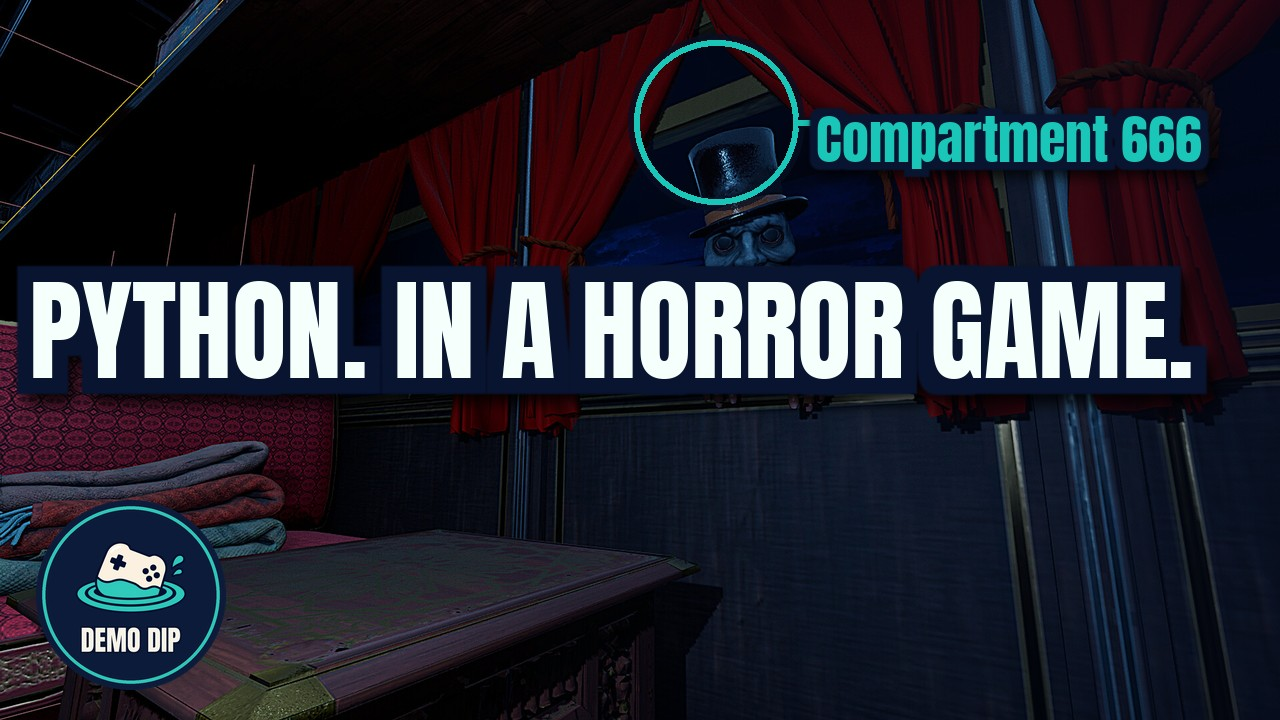
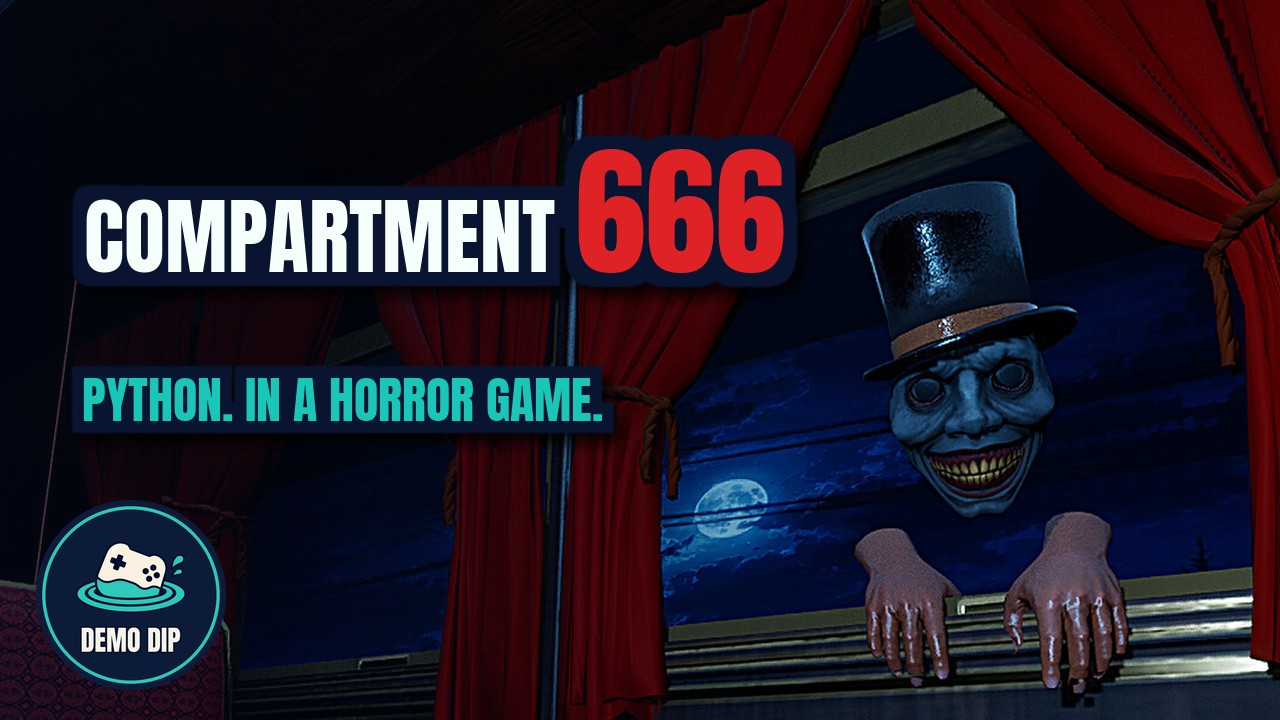
Thumbnails: pick the horror shot, and let one word carry the frame
Both COMPARTMENT 666 thumbnails were built on the calmest screenshot the store
had -- an empty carriage -- and set the game's name at one flat size. The user:
"666을 강조해줘", then "호러물인데.. 호러를 강조한 샷으로 만들어야 함".

Background is now ss00: the top-hat figure grinning through the window, red
curtains, a moon. It is the only frame in the set that reads as horror at 246 px.

Two additions to make_thumbnail.py, both needed to use it:

--zoom / --ox / --oy. A 16:9 screenshot into a 16:9 canvas crops nothing at
zoom 1, so --focus had no effect and there was no way to push in on the face.
At zoom 1.8 the face fills the right half and the text clears it -- the first
attempt at zoom 1.5 put the headline straight across the face, which is exactly
the "게임 스샷이 망가지면 안 됨" rule.

{braces} mark an accent run: drawn 1.7x and in blood red, on a shared baseline
with the rest of the line, and outlined from the combined alpha so the navy edge
wraps the whole line as one shape (dilating each run separately leaves a seam
where they meet). "COMPARTMENT {666}" is now legible as 666 at feed size.

--text-y, because 9:16 cannot do what 16:9 can: a vertical crop of a 16:9 source
uses the full height, so the subject cannot be moved below the middle -- the crop
would have to start above the source. On a Short the text moves instead, and the
badge steps aside to the other corner when the two overlap (it was clipping the
first letter of the hook).
[…]

diff --git a/scripts/motion/make_thumbnail.py b/scripts/motion/make_thumbnail.py
@@ -28,6 +28,7 @@ from PIL import Image, ImageDraw, ImageFont, ImageFilter
 
 W, H = 1280, 720
 TEAL = (25, 198, 183, 255); WHITE = (245, 255, 252, 255); NAVY = (8, 20, 48, 255)
+BLOOD = (222, 34, 38, 255)   # the accent run; see rich_text()
 ANTON = 'assets/fonts/Anton-Regular.ttf'
 INTER = 'assets/fonts/Inter.ttf'
 CJK = 'C:/Windows/Fonts/malgunbd.ttf'
@@ -66,6 +67,74 @@ def outlined_text(txt, size, fill, outline=10, shadow=(8, 10), label=False):
     return out
 
 
+def split_accent(txt):
+    """`"COMPARTMENT {666}"` -> [("COMPARTMENT ", False), ("666", True)].
+
+    One word usually carries the whole thumbnail -- a number, a file name, the thing
+    the episode is about -- and drawing the line at one size makes that word disappear
+    into the sentence around it. Braces mark the run that should be bigger and hot.
+    """
+    parts, buf, acc = [], '', False
+    for ch in txt:
+        if ch == '{' and not acc:
+            if buf: parts.append((buf, False))
+            buf, acc = '', True
+        elif ch == '}' and acc:
+            if buf: parts.append((buf, True))
+            buf, acc = '', False
+        else:
+            buf += ch
+    if buf: parts.append((buf, acc))
+    return parts or [(txt, False)]
+
+
+def rich_measure(parts, size, scale):
+    """Width of the whole run set, and the ascent/descent it needs, at this base size."""
+    w = asc = desc = 0
+    for txt, hot in parts:
+        f = font_for(txt, int(size * scale) if hot else size)
+        w += f.getlength(txt)
+        a, d = f.getmetrics()
+        asc = max(asc, a); desc = max(desc, d)
+    return w, asc, desc
+
+
+def fit_rich(parts, size, max_w, scale):
+    while size > 40 and rich_measure(parts, size, scale)[0] > max_w:
+        size -= 4
+    return size
+
+
+def rich_text(parts, size, fill, outline=10, shadow=(8, 10), scale=1.42, hot=BLOOD):
+    """`outlined_text` for a line whose runs differ in size and colour.
+
+    The runs are painted into ONE bitmap and the outline is dilated from that bitmap's
+    combined alpha, so the navy edge wraps the line as a single shape. Dilating each run
+    on its own leaves a seam of doubled outline where two runs meet, which at a real
+    246 px thumbnail reads as a smudge.
+
+    Runs sit on a shared baseline, not a shared top edge: the accent is ~40% taller, and
+    top-aligning it makes the sentence look like it slipped a line.
+    """
+    tw, asc, desc = rich_measure(parts, size, scale)
+    pad = outline + 30
+    base = Image.new('RGBA', (int(tw) + pad * 2, asc + desc + pad * 2), (0, 0, 0, 0))
+    d = ImageDraw.Draw(base)
+    x = pad
+    for txt, is_hot in parts:
+        f = font_for(txt, int(size * scale) if is_hot else size)
+        d.text((x, pad + asc - f.getmetrics()[0]), txt, font=f, fill=hot if is_hot else fill)
+        x += f.getlength(txt)
+    a = base.split()[3]
+    dil = a.filter(ImageFilter.MaxFilter(outline * 2 + 1)).filter(ImageFilter.GaussianBlur(0.8))
+    ol = Image.new('RGBA', base.size, NAVY); ol.putalpha(dil)
+    sh = Image.new('RGBA', base.size, (0, 0, 0, 255)); sh.putalpha(dil.point(lambda v: int(v * 0.85)))
+    sh = sh.filter(ImageFilter.GaussianBlur(7))
+    out = Image.new('RGBA', base.size, (0, 0, 0, 0))
+    out.alpha_composite(sh, shadow); out.alpha_composite(ol); out.alpha_composite(base)
+    return out
+
+
 def main():
     ap = argparse.ArgumentParser()
     ap.add_argument('--bg', required=True); ap.add_argument('--out', required=True)
@@ -73,6 +142,19 @@ def main():
     ap.add_argument('--tag', default='')
     ap.add_argument('--badge', help='series badge PNG; defaults to the English one')
     ap.add_argument('--focus', default='center', choices=['center', 'left', 'right'])
+    ap.add_argument('--zoom', type=float, default=1.0,
+                    help='scale past cover-fit before cropping, so a face can fill the frame. '
+                         'A 16:9 source into a 16:9 canvas crops nothing at zoom 1 -- --focus '
+                         'has no effect there and this is the only way in.')
+    ap.add_argument('--ox', type=float, help='crop window position 0..1 across (overrides --focus)')
+    ap.add_argument('--oy', type=float, default=0.5, help='crop window position 0..1 down')
+    ap.add_argument('--text-y', type=float,
+                    help='where the text block starts, 0..1 down the frame. Defaults to 0.22 '
+                         'vertical / 60 px wide. A 9:16 crop of a 16:9 screenshot cannot move '
+                         'the subject below the middle -- the crop cannot start above the '
+                         'source -- so when the face sits high the text is what moves.')
+    ap.add_argument('--accent-scale', type=float, default=1.42,
+                    help='how much bigger a {braced} run is drawn than the rest of its line')
     ap.add_argument('--text-side', default='left', choices=['left', 'right'])
     ap.add_argument('--title-size', type=int, default=150); ap.add_argument('--hook-size', type=int, default=92)
     ap.add_argument('--vertical', action='store_true', help='1080x1920 for a Short')
@@ -92,15 +174,21 @@ def main():
         W, H = 1080, 1920
 
     bg = Image.open(a.bg).convert('RGB')
-    s = max(W / bg.width, H / bg.height); bg = bg.resize((int(bg.width * s) + 1, int(bg.height * s) + 1), Image.LANCZOS)
-    ox = {'center': (bg.width - W) // 2, 'left': 0, 'right': bg.width - W}[a.focus]
-    bg = bg.crop((ox, (bg.height - H) // 2, ox + W, (bg.height - H) // 2 + H)).convert('RGBA')
+    s = max(W / bg.width, H / bg.height) * a.zoom
+    bg = bg.resize((int(bg.width * s) + 1, int(bg.height * s) + 1), Image.LANCZOS)
+    if a.ox is not None:
+        ox = int(max(0, bg.width - W) * min(1.0, max(0.0, a.ox)))
+    else:
+        ox = {'center': (bg.width - W) // 2, 'left': 0, 'right': bg.width - W}[a.focus]
+    oy = int(max(0, bg.height - H) * min(1.0, max(0.0, a.oy)))
+    bg = bg.crop((ox, oy, ox + W, oy + H)).convert('RGBA')
     # gentle vignette on the text side only, so the art stays bright
     grad = Image.new('L', (W, H), 0); gd = ImageDraw.Draw(grad)
     if a.vertical:
-        # darken the band the text sits in (upper-middle), leave the bottom for the art
+        # darken the band the text sits in, leave the rest for the art
+        band = (a.text_y + 0.14) if a.text_y is not None else 0.36
         for yy in range(H):
-            f = 1 - abs((yy / H) - 0.36) / 0.36
+            f = 1 - abs((yy / H) - band) / 0.36
             gd.line((0, yy, W, yy), fill=int(max(0, f - 0.15) / 0.85 * 150))
     else:
         for x in range(W):
@@ -137,11 +225,16 @@ def main():
 
     x0 = 40 if a.text_side == 'left' else None
     # Shorts UI covers the right ~14% and bottom ~16%; start the text block at 22% down
-    y = int(H * 0.22) if a.vertical else 60
+    y = int(H * a.text_y) if a.text_y is not None else (int(H * 0.22) if a.vertical else 60)
     usable = W - 80 - (int(W * 0.14) if a.vertical else 0)
 
+    text_box = [W, H, 0, 0]   # x0, y0, x1, y1 of everything we draw, for the badge to dodge
+
     def put(img, yy):
-        bg.alpha_composite(img, (x0 if x0 is not None else W - img.width - 40, yy))
+        px = x0 if x0 is not None else W - img.width - 40
+        bg.alpha_composite(img, (px, yy))
+        text_box[0] = min(text_box[0], px); text_box[1] = min(text_box[1], yy)
+        text_box[2] = max(text_box[2], px + img.width); text_box[3] = max(text_box[3], yy + img.height)
 
     if a.claim_first:
         # Claim big and white, name small above it, no engine tag. Measured against the
@@ -149,23 +242,39 @@ def main():
         # element and the least legible reason to click, while the number that earns the
         # click sat half-size in teal over busy art. Two blocks, one of them dominant.
         if a.line1:
-            n = outlined_text(a.line1, fit_size(a.line1, 54, usable), TEAL, outline=8, shadow=(5, 6))
+            p1 = split_accent(a.line1)
+            n = rich_text(p1, fit_rich(p1, 54, usable, a.accent_scale), TEAL,
+                          outline=8, shadow=(5, 6), scale=a.accent_scale)
             put(n, y); y += int(n.height * 0.98)
         if a.line2:
-            c = outlined_text(a.line2, fit_size(a.line2, a.title_size, usable), WHITE, outline=16)
+            p2 = split_accent(a.line2)
+            c = rich_text(p2, fit_rich(p2, a.title_size, usable, a.accent_scale), WHITE,
+                          outline=16, scale=a.accent_scale)
             put(c, y)
     else:
         if a.tag:
             t = outlined_text(a.tag, 34, TEAL, outline=6, shadow=(4, 5), label=True)
             put(t, y); y += 78
-        l1 = outlined_text(a.line1, fit_size(a.line1, a.title_size, usable), WHITE, outline=14)
+        p1 = split_accent(a.line1)
+        l1 = rich_text(p1, fit_rich(p1, a.title_size, usable, a.accent_scale), WHITE,
+                       outline=14, scale=a.accent_scale)
         put(l1, y); y += int(l1.height * 0.86)
         if a.line2:
-            l2 = outlined_text(a.line2, fit_size(a.line2, a.hook_size, usable - 180), TEAL, outline=12)  # keep the hook narrower than the title
+            p2 = split_accent(a.line2)
+            l2 = rich_text(p2, fit_rich(p2, a.hook_size, usable - 180, a.accent_scale), TEAL,
+                           outline=12, scale=a.accent_scale)  # keep the hook narrower than the title
             put(l2, y)
     badge = Image.open(a.badge or BADGE).convert('RGBA'); bs = 190 / badge.height
     badge = badge.resize((int(badge.width * bs), 190), Image.LANCZOS)
-    bg.alpha_composite(badge, (36, H - badge.height - (int(H * 0.16) + 30 if a.vertical else 30)))
+    by = H - badge.height - (int(H * 0.16) + 30 if a.vertical else 30)
+    bx = 36
+    # The badge lives bottom-left, but --text-y can push the copy down into it (a low text
+    # block on a Short clipped the first letter of the hook). If they overlap, the badge
+    # moves to the other side rather than the text, because the text position was chosen
+    # to clear the art and the badge only has to be somewhere.
+    if bx < text_box[2] and bx + badge.width > text_box[0] and by < text_box[3] and by + badge.height > text_box[1]:
+        bx = W - badge.width - 36
+    bg.alpha_composite(badge, (bx, by))
     bg.convert('RGB').save(a.out, quality=90)
     print('saved', a.out)
 

diff --git a/docs/CHANNEL.md b/docs/CHANNEL.md
@@ -377,6 +377,20 @@ people`(Expedition), `Nobody quit this Steam demo in under 10 minutes`(Guildrun)
 - 상단에 작은 라벨 한 줄(`SOLO DEV / AI ART`) — Inter Black
 - 점수 도장은 넣지 않는다. 뱃지 좌하단, 글자는 두꺼운 외곽선
 
+**배경은 그 게임에서 가장 무서운(가장 그 장르다운) 한 컷을 고른다.** 스토어 스샷 첫 장이
+대체로 가장 평범하다 — 13화의 첫 썸네일은 텅 빈 객차였고 사용자 평: *"호러물인데.. 호러를
+강조한 샷으로 만들어야 함"*. 공포물이면 얼굴·피·형체가 있는 컷, 그리고 그게 얼굴이면
+**얼굴을 가리지 않는다**(게임 스샷은 망가뜨리지 않는다는 규칙).
+
+`--zoom / --ox / --oy`로 그 컷 안으로 밀고 들어간다. 16:9 원본을 16:9 캔버스에 넣으면
+zoom 1에서는 잘리는 곳이 없어 `--focus`가 아무 일도 하지 않는다 — 얼굴을 키우는 길은
+zoom뿐이다. 9:16(쇼츠)은 반대로 세로를 전부 쓰므로 피사체를 화면 아래로 내릴 수 없다.
+그럴 땐 `--text-y`로 **글자를 내린다**(뱃지는 겹치면 알아서 반대편으로 비킨다).
+
+**한 단어를 키우고 색을 바꾼다 — `--line1 "COMPARTMENT {666}"`.** 중괄호로 감싼 구간만
+1.42배(`--accent-scale`) 크기에 핏빛으로 그려진다. 썸네일 하나를 이끄는 건 대개 단어
+하나(숫자, 파일 이름, 게임의 상징)인데, 한 크기로 쓰면 그 단어가 문장에 묻힌다.
+
 ### 설명
 앞 2줄이 검색 스니펫이다. 순서를 고정한다:
 
